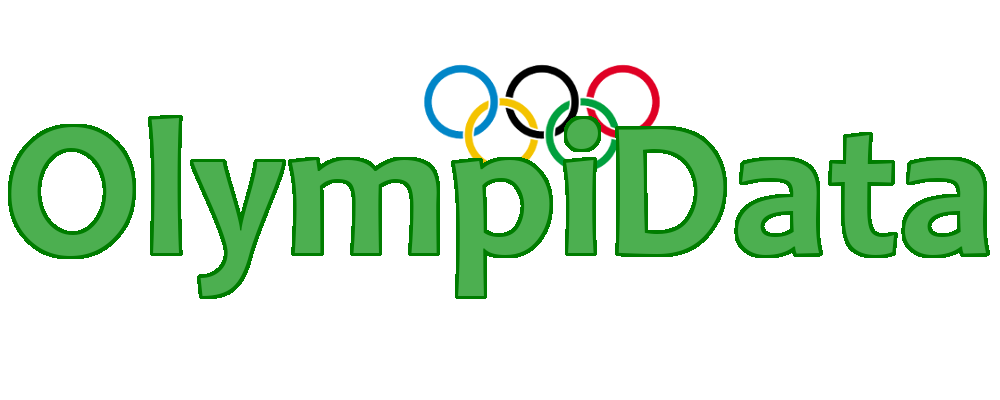
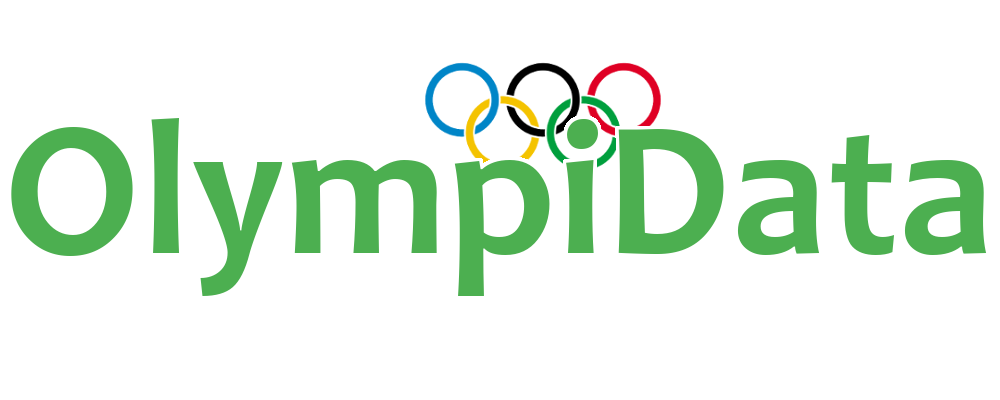
changed title to white border
and removed unneeded scroll from info popup

diff --git a/SRC/APPLICAITON-SOURCE-CODE/Front_End/css/quiz.css b/SRC/APPLICAITON-SOURCE-CODE/Front_End/css/quiz.css
@@ -78,7 +78,8 @@ li {
 
 #infoTextBox {
     border: none;
-    overflow: scroll;
+    overflow-x: hidden;
+    overflow-y: auto;
     font-family: "Andale Mono";
     padding: 7px;
     height: 145px;
